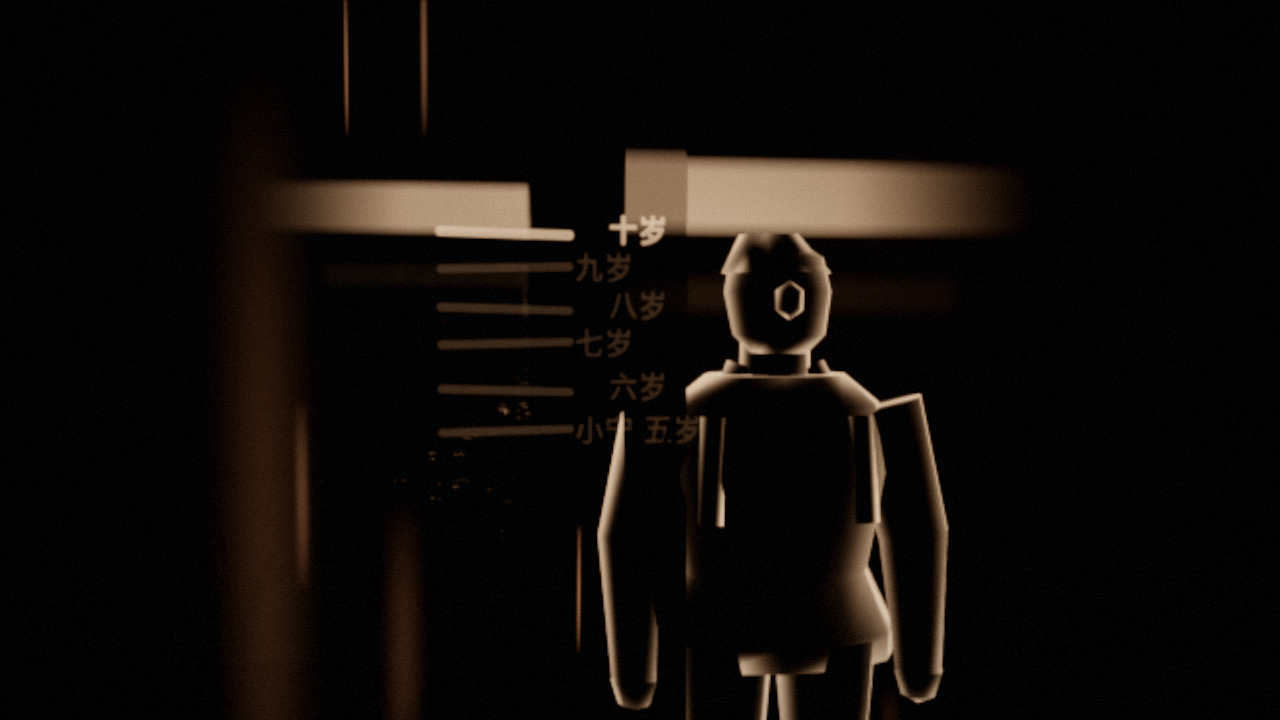
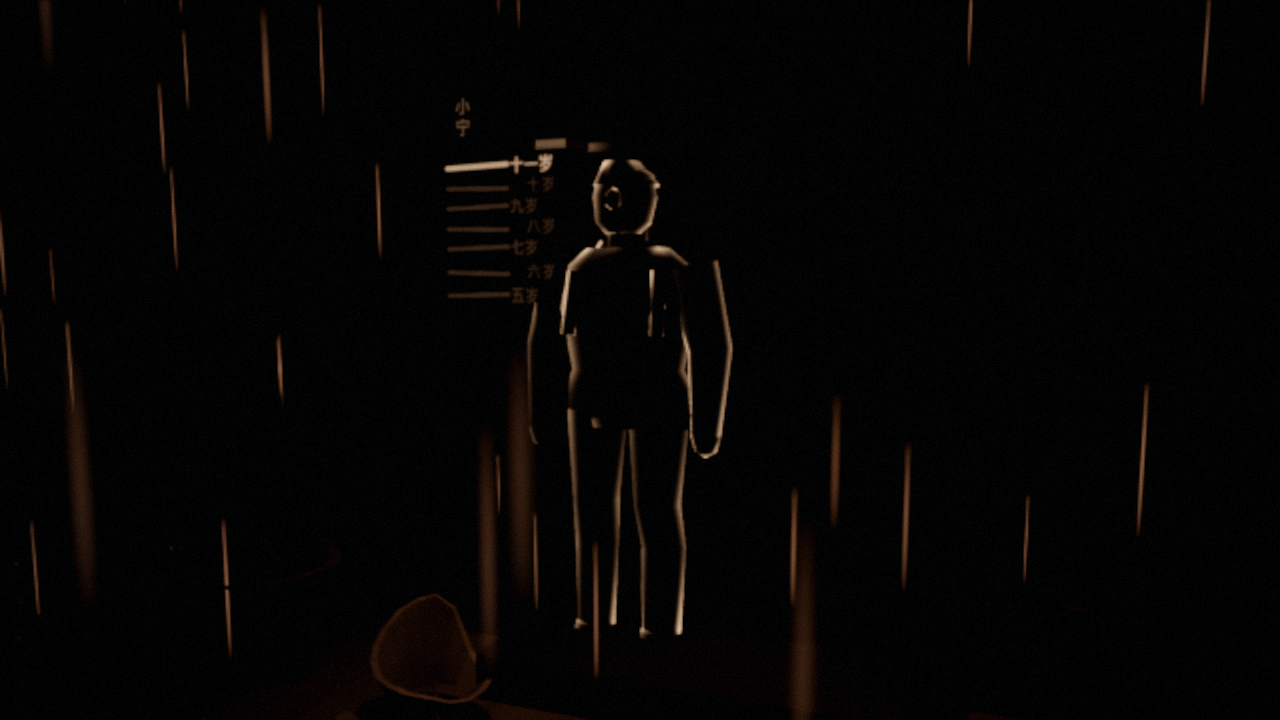
Grok r5: tight level beam with full memory cone, name written once, thin-outline child, camera reads the last mark; lightning only on streaks + dark sky; silhouette people; dimmer windows/signs; shot retry

diff --git a/src/story/fragment.js b/src/story/fragment.js
@@ -12,7 +12,7 @@ import { NOTICES, noticeMaterial } from '../systems/street/details.js';
 const DOOR = { x: 5.0, z: -14.2, w: 0.96, h: 2.12 };
 const FLOOR = 0.14; // sidewalk / doorstep level: marks and the child share this base
 const MARKS = [
-  { h: 1.10, label: '小宁 五岁' }, { h: 1.17, label: '六岁' }, { h: 1.24, label: '七岁' }, { h: 1.30, label: '八岁' },
+  { h: 1.10, label: '五岁' }, { h: 1.17, label: '六岁' }, { h: 1.24, label: '七岁' }, { h: 1.30, label: '八岁' },
   { h: 1.36, label: '九岁' }, { h: 1.42, label: '十岁' }, { h: 1.48, label: '十一岁' },
 ].map((m) => ({ ...m, y: FLOOR + m.h }));
 
@@ -23,6 +23,10 @@ function marksTexture(count) {
     g.fillStyle = '#000'; g.fillRect(0, 0, 256, 1024);
     g.strokeStyle = '#fff'; g.fillStyle = '#fff'; g.lineWidth = 7; g.lineCap = 'round';
     g.font = '600 24px "PingFang SC","Hiragino Sans GB",sans-serif';
+    if (n > 0) { // the name, written once up the jamb in the same hand
+      g.save(); g.globalAlpha = 0.5; g.translate(30, 1024 - (1.78 / 2.12) * 1024); g.font = '600 26px "PingFang SC","Hiragino Sans GB",sans-serif';
+      for (const [k, ch] of [...'小宁'].entries()) g.fillText(ch, 0, k * 30); g.restore();
+    }
     MARKS.slice(0, n).forEach((m, i) => {
       const y = 1024 - (m.y / 2.12) * 1024;
       g.globalAlpha = i === n - 1 ? 1 : 0.28;
@@ -41,9 +45,9 @@ function rimMaterial(extraMask) {
   const m = new THREE.MeshStandardNodeMaterial();
   m.lightsNode = lights([]);
   m.colorNode = vec3(0);
-  const rim = pow(float(1).sub(abs(dot(normalView, positionViewDirection))), 3.5);
+  const rim = pow(float(1).sub(abs(dot(normalView, positionViewDirection))), 6.0);
   const mask = memoryMask(positionWorld).mul(extraMask);
-  m.emissiveNode = amberNode().mul(rim.mul(1.8)).mul(mask); // outline only: no body fill
+  m.emissiveNode = amberNode().mul(rim.mul(2.4)).mul(mask); // a thin outline only: the body stays black
   m.maskNode = mask.greaterThan(0.08);
   return m;
 }
@@ -188,6 +192,7 @@ export default {
       this.child.scale.setScalar(target.h / this.childBaseH);
       if (step !== this.shown) { this.shown = step; this.marks.draw(step); ctx.api.audio?.play('click'); }
       const end = 3 + MARKS.length * 2.2 + 2.5;
+      this.endT = end;
       if (this.t > end) {
         // the marks stop; the child is gone; the line stays on the last mark a moment, then control returns
         this.childVis.value = Math.max(0, 1 - (this.t - end) / 1.2);

diff --git a/src/systems/rain/index.js b/src/systems/rain/index.js
@@ -118,9 +118,11 @@ export default {
       const cutoff = float(1).sub(d2.div(light.range.mul(light.range)).pow(2)).clamp().pow(2);
       return angular.mul(cutoff).mul(light.intensity).div(d2.max(0.25)).mul(0.08).clamp();
     })();
-    const shade = (p) => {
+    // flash: thin streaks catch the lightning; big curtain planes and ground rings barely do (else they read as
+    // lit squares on walls and water in the flash) (Claude, after Grok r5)
+    const shade = (p, flash = 0.6) => {
       const lit = this.lights.map(light => light.color.mul(spot(p, light)));
-      return vec3(0.65, 0.72, 0.8).mul(float(0.05).add(u.lightning.mul(0.95)))
+      return vec3(0.65, 0.72, 0.8).mul(float(0.05).add(u.lightning.mul(flash)))
         .add(lit[0].add(lit[1]).mul(0.95))
         .add(amber.mul(cone(p)).mul(0.95)).min(vec3(1));
     };
@@ -169,7 +171,7 @@ export default {
     const age = impact.w.div(hitRandom.mul(0.5).add(0.22)).clamp();
     const radius = age.mul(sizeRandom.mul(0.15).add(0.04)).add(0.012);
     rings.positionNode = impact.xyz.add(vec3(positionGeometry.x, 0, positionGeometry.y).mul(radius.mul(2)));
-    rings.colorNode = varying(shade(impact.xyz).mul(0.8), 'rainHitLight');
+    rings.colorNode = varying(shade(impact.xyz, 0.12).mul(0.8), 'rainHitLight');
     const circle = uv().sub(0.5).length().mul(2);
     rings.opacityNode = float(1).sub(smoothstep(0.035, 0.12, circle.sub(0.8).abs()))
       .mul(float(1).sub(varying(age, 'rainHitAge'))).mul(u.rain).mul(0.38);
@@ -190,7 +192,7 @@ export default {
       const trail = smoothstep(0.65, 0.95, fract(uv().y.mul(12).add(u.time.mul(2.2 - i * 0.35)).add(rnd)));
       const edge = smoothstep(0, 0.12, uv().x).mul(float(1).sub(smoothstep(0.88, 1, uv().x)))
         .mul(smoothstep(0, 0.08, uv().y)).mul(float(1).sub(smoothstep(0.7, 1, uv().y)));
-      curtain.colorNode = shade(world);
+      curtain.colorNode = shade(world, 0.08);
       curtain.opacityNode = line.mul(trail).mul(edge).mul(u.rain).mul(0.13);
       add(new THREE.PlaneGeometry(1, 1), curtain, `rain-curtain-${i}`);
     }

diff --git a/src/systems/robot/index.js b/src/systems/robot/index.js
@@ -239,7 +239,10 @@ export default {
     this.spot.position.copy(this._v).addScaledVector(this._d, 0.03);
     this.spot.target.position.copy(this._v).addScaledVector(this._d, 10);
     this.spot.intensity = 260 * o * o;
-    this.spot.angle = 0.12 + 0.24 * o;
+    // the surveyor's level mark is a tight beam (thin and short on the jamb), but the past it reveals keeps the
+    // full cone: light and memory are separate here
+    const coneAngle = 0.12 + 0.24 * o;
+    this.spot.angle = ctx.memory.goboMode === 'line' ? 0.05 + 0.03 * o : coneAngle;
     // never toggle the light's visibility (changing the light set recompiles every lit material = a visible hitch);
     // just stop re-rendering its shadow map while the eye is shut. The beam volume is kept visible for the first
     // frames (hidden by the black title) so its pipeline is compiled before the eye ever opens.
@@ -254,7 +257,7 @@ export default {
     // ---- publish the memory cone
     const m = ctx.memory;
     m.origin.copy(this._v); m.dir.copy(this._d);
-    m.angle = this.spot.angle; m.range = 40; m.strength = o;
+    m.angle = coneAngle; m.range = 40; m.strength = o;
     syncMemory(m);
   },
 };

diff --git a/src/systems/atmo/index.js b/src/systems/atmo/index.js
@@ -28,7 +28,9 @@ export default {
     this.fogHeight = uniform(5.5);
     this.fogColor = uniform(new THREE.Color(0x08090a));
     scene.fogNode = fog(this.fogColor, exponentialHeightFogFactor(this.fogDensity, this.fogHeight));
-    scene.backgroundNode = this.fogColor.mul(0.6);
+    // the sky stays dark even in a flash (a lit sky between the rooftops read as a flat grey rectangle)
+    this.skyColor = uniform(new THREE.Color(0x050506));
+    scene.backgroundNode = this.skyColor;
 
     const tex = noise3D();
     const jit = postfx.volumeJitter;
@@ -98,8 +100,8 @@ export default {
       this.boltT += dt;
       let v = 0;
       for (const p of this.pulses) { const x = this.boltT - p; if (x > 0) v = Math.max(v, Math.exp(-x * 18) * (p === 0 ? 1 : 0.7)); }
-      this.bolt.intensity = v * 6.5;
-      this.fogColor.value.setScalar(0.035 + v * 0.14);
+      this.bolt.intensity = v * 2.2;
+      this.fogColor.value.setScalar(0.035 + v * 0.022);
       ctx.world.lightning = v;
       if (this.boltT > 1.2) { this.boltT = -1; this.nextBolt = 25 + Math.random() * 30; this.fogColor.value.set(0x08090a); ctx.world.lightning = 0; }
     }

diff --git a/src/story/director.js b/src/story/director.js
@@ -101,10 +101,13 @@ export default {
         // the door memory gets its own slow push-in toward the doorway, then eases back
         const fr = ctx.api.fragment;
         if (fr && fr.state === 'playing') {
-          const push = ease(Math.min(1, fr.t / 6)) * (fr.t > 19 ? Math.max(0, 1 - (fr.t - 19) / 4) : 1);
+          const push = ease(Math.min(1, fr.t / 6));
           this.cam.pos.lerp(this._v.set(1.2, 1.3, -14.0), push * 0.7);
           this.cam.look.lerp(this._w.set(5.0, 1.15, -14.6), push);
           this.cam.fov = 50 - push * 12;
+          // the empty beat: come close enough to read the last mark ('十一岁') on the jamb
+          const beat = ease(Math.min(1, Math.max(0, (fr.t - fr.endT) / 3)));
+          if (beat > 0) { this.cam.pos.lerp(this._v.set(3.3, 1.55, -14.45), beat); this.cam.look.lerp(this._w.set(4.95, 1.6, -14.75), beat); this.cam.fov -= beat * 8; }
         }
         const frag = ctx.api.fragment;
         this.lookTime = (this.lookTime ?? 0) + dt; // gates the door memory (fragment.js) so it is not the first thing seen

diff --git a/src/systems/street/index.js b/src/systems/street/index.js
@@ -42,7 +42,7 @@ export default {
     };
     // the past, inside the eye's cone: lit windows, lit shops (amber only)
     const mask = memoryMask();
-    M.glass.emissiveNode = amberNode().mul(mask).mul(ctx.params.get('noglow') !== null ? 1 : pastWindowGlow()).mul(1.15);
+    M.glass.emissiveNode = amberNode().mul(mask).mul(ctx.params.get('noglow') !== null ? 1 : pastWindowGlow()).mul(0.7);
     M.void.emissiveNode = amberNode().mul(mask).mul(0.9);
     M.brickSeal = makeSurface('brick_4', { scale: 1.4, tone: 0.75, metal: 0, streaks: 0.4 });
     M.brickSeal.maskNode = mask.lessThan(0.45); // dissolves (with the cone's grain) inside the memory

diff --git a/src/systems/street/details.js b/src/systems/street/details.js
@@ -103,7 +103,7 @@ export async function buildDetails(ctx, root, facades, M, r) {
   const { scene } = ctx;
   const L = LANE;
   const dark = new THREE.MeshStandardNodeMaterial({ color: 0x0d0d0d, roughness: 0.55, metalness: 0.4 });
-  const pale = new THREE.MeshStandardNodeMaterial({ color: 0x8a8a88, roughness: 0.45 });
+  const pale = new THREE.MeshStandardNodeMaterial({ color: 0x4e4e4c, roughness: 0.5 }); // dead signs: dirty, never paper-white in the beam
   const acGeo = new THREE.BoxGeometry(0.35, 0.55, 0.8);
   const signGeo = new THREE.BoxGeometry(0.18, 1.8, 0.55);
   const pipeGeo = new THREE.CylinderGeometry(0.06, 0.06, 1, 6);

diff --git a/src/systems/ghosts/index.js b/src/systems/ghosts/index.js
@@ -101,8 +101,8 @@ function material() {
   // silhouettes: unlit, near-black body with a thin amber rim, so they stand *in* the light rather than glow
   m.lightsNode = lights([]);
   m.colorNode = vec3(0);
-  const rim = pow(float(1).sub(abs(dot(normalView, positionViewDirection))), 3.0);
-  m.emissiveNode = amberNode().mul(rim.mul(1.6).add(0.06)).mul(mask).mul(scan);
+  const rim = pow(float(1).sub(abs(dot(normalView, positionViewDirection))), 5.0);
+  m.emissiveNode = amberNode().mul(rim.mul(2.2)).mul(mask).mul(scan); // dark silhouette, thin amber edge only
   return m;
 }
 

diff --git a/src/story/micro.js b/src/story/micro.js
@@ -12,9 +12,9 @@ function rimMaterial(vis) {
   const m = new THREE.MeshStandardNodeMaterial();
   m.lightsNode = lights([]);
   m.colorNode = vec3(0);
-  const rim = pow(float(1).sub(abs(dot(normalView, positionViewDirection))), 3.0);
+  const rim = pow(float(1).sub(abs(dot(normalView, positionViewDirection))), 5.0);
   const mask = memoryMask(positionWorld).mul(vis);
-  m.emissiveNode = amberNode().mul(rim.mul(1.6).add(0.03)).mul(mask);
+  m.emissiveNode = amberNode().mul(rim.mul(2.2)).mul(mask);
   m.maskNode = mask.greaterThan(0.08);
   return m;
 }

diff --git a/.agent-tasks/r5-visual/result.md b/.agent-tasks/r5-visual/result.md
@@ -1,0 +1,21 @@
+先读上轮意见、当前报告和这批新截图，只对照画面，不改文件。上轮意见和报告对上了。接着看全程试玩和这几张特写，核对门、结尾和新增的猫、照相馆。静帧里门和闪电还有几处对不上。我裁开关键区域再核对，避免把光斑和刻度看错。激光没收到门框上，近景里仍是孩子头顶一条很粗的横带，拖到街对面的积水里，倒影连成一片。
+
+门廊灯和近景都有了，五岁到十岁能读，可六道几乎一样亮，「小宁」叠在「五岁」上；试玩抽到的那格，孩子仍是门口正中一个发白的全身。
+
+空拍有了，孩子消失后有一格门口没人、灯还亮，但这格读不出「十一岁」，抽帧的下一格已经回到有人的街，灯闪不闪也看不出。
+
+结尾做到了：试玩表先是一格纯黑，再出「刻度停在十一岁。」和「灯灭了，门还是那么高。」，字在全黑上，没有「新游戏 · 2026」。光圈半开这张，叶片和多边形光孔都在。
+
+现在最出戏的五处：
+
+1. 闪电。街尽头正对镜头一块均匀灰矩形还在，墙和近处积水上还有几块方片，整条街被抬成中灰。常态已经近黑，这一闪没守住。
+2. 门上的孩子。远景是发白纸片人，近景后脑一块发光的六边形，轮廓光粗得像贴纸，刻度是一排一样粗的亮条。
+3. 记忆里的人还是浅色低模。照相馆一家人和撑伞的人身体是填实的，「光明照相」屋顶上另有一块纯白几何牌，楼面还有几块纸白窗。
+4. 亮处的雨是同样粗、同样疏的实线，近处不虚，从孩子身上切过去。
+5. 猫是一块光滑的泥塑，耳朵两根尖刺，脚边水坑把墙和猫照得像镜子。
+
+只剩两小时，按收益：
+
+1. 把门做准。孩子改成黑底细轮廓，拿掉后脑的六边形，半个身子让门框挡住；激光缩成门框上当年那一截细线；只亮「十一岁」，其余退回铅笔灰，「小宁」和「五岁」错开；空拍的机位推到能读出这行字。都是灯光、材质和机位。
+2. 闪电那块灰矩形，连同墙上和水面上的方片，移出画面；闪电压暗，只留楼的轮廓和湿地反光。
+3. 记忆里的人压成暗剪影，只留一圈琥珀边；屋顶的白牌和纸白窗压暗，光斑边缘弄缺。

diff --git a/docs/review-visual-grok-r5.md b/docs/review-visual-grok-r5.md
@@ -1,0 +1,21 @@
+先读上轮意见、当前报告和这批新截图，只对照画面，不改文件。上轮意见和报告对上了。接着看全程试玩和这几张特写，核对门、结尾和新增的猫、照相馆。静帧里门和闪电还有几处对不上。我裁开关键区域再核对，避免把光斑和刻度看错。激光没收到门框上，近景里仍是孩子头顶一条很粗的横带，拖到街对面的积水里，倒影连成一片。
+
+门廊灯和近景都有了，五岁到十岁能读，可六道几乎一样亮，「小宁」叠在「五岁」上；试玩抽到的那格，孩子仍是门口正中一个发白的全身。
+
+空拍有了，孩子消失后有一格门口没人、灯还亮，但这格读不出「十一岁」，抽帧的下一格已经回到有人的街，灯闪不闪也看不出。
+
+结尾做到了：试玩表先是一格纯黑，再出「刻度停在十一岁。」和「灯灭了，门还是那么高。」，字在全黑上，没有「新游戏 · 2026」。光圈半开这张，叶片和多边形光孔都在。
+
+现在最出戏的五处：
+
+1. 闪电。街尽头正对镜头一块均匀灰矩形还在，墙和近处积水上还有几块方片，整条街被抬成中灰。常态已经近黑，这一闪没守住。
+2. 门上的孩子。远景是发白纸片人，近景后脑一块发光的六边形，轮廓光粗得像贴纸，刻度是一排一样粗的亮条。
+3. 记忆里的人还是浅色低模。照相馆一家人和撑伞的人身体是填实的，「光明照相」屋顶上另有一块纯白几何牌，楼面还有几块纸白窗。
+4. 亮处的雨是同样粗、同样疏的实线，近处不虚，从孩子身上切过去。
+5. 猫是一块光滑的泥塑，耳朵两根尖刺，脚边水坑把墙和猫照得像镜子。
+
+只剩两小时，按收益：
+
+1. 把门做准。孩子改成黑底细轮廓，拿掉后脑的六边形，半个身子让门框挡住；激光缩成门框上当年那一截细线；只亮「十一岁」，其余退回铅笔灰，「小宁」和「五岁」错开；空拍的机位推到能读出这行字。都是灯光、材质和机位。
+2. 闪电那块灰矩形，连同墙上和水面上的方片，移出画面；闪电压暗，只留楼的轮廓和湿地反光。
+3. 记忆里的人压成暗剪影，只留一圈琥珀边；屋顶的白牌和纸白窗压暗，光斑边缘弄缺。

diff --git a/.agent-tasks/journal.md b/.agent-tasks/journal.md
@@ -49,3 +49,4 @@
 - 2026-10-16 05:54:42 | claude | 派给 codex：第四轮代码审查（r5-review，只读）
 - 2026-10-16 05:54:42 | claude | 派给 grok：第四轮画面意见（r5-visual，只读）
 - 2026-10-16 05:56:42 | codex | 完成：第四轮代码审查（r5-review）
+- 2026-10-16 06:01:22 | grok | 完成：第四轮画面意见（r5-visual）
